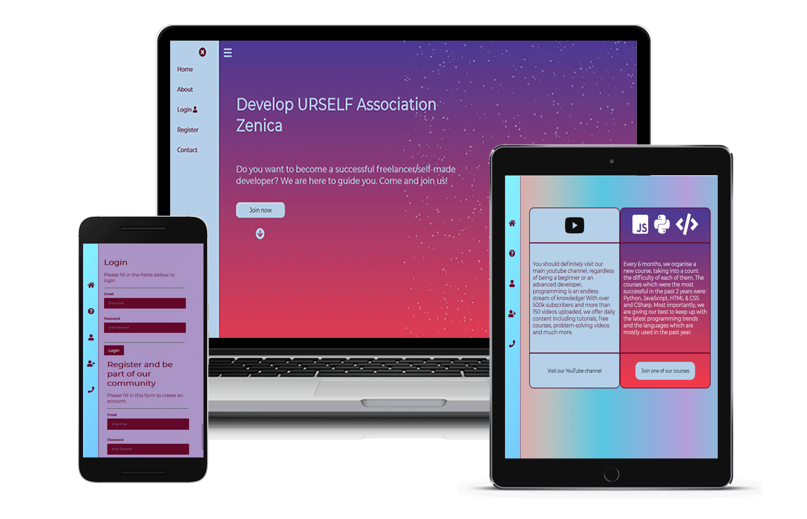
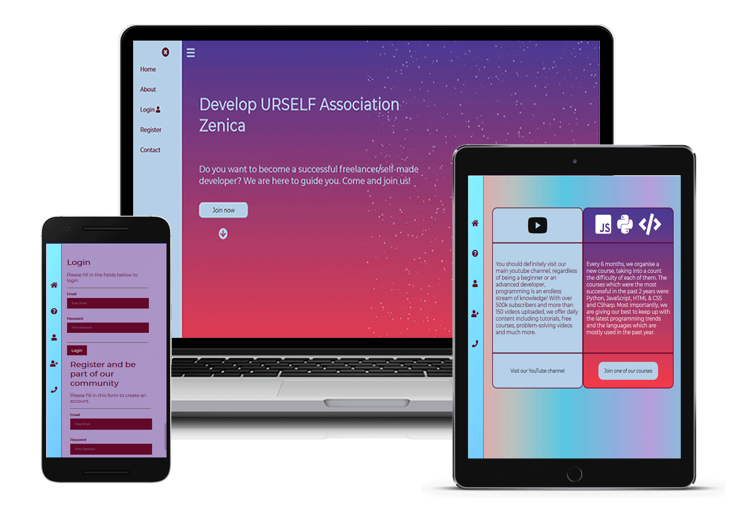
Changed the design and hovers of some components

diff --git a/index.html b/index.html
@@ -98,7 +98,7 @@
             </div>
             <div class="skills_wrapper">
                 <div class="skill1" data-aos="zoom-in" data-aos-duration="800">
-                    <div class="icon1">
+                    <div class="icon1" style="box-shadow: rgb(38, 57, 77) 0px 20px 30px -10px;">
                         <i class="fas fa-laugh-beam"></i>
                     </div>
                     <div class="mini_subtitle">Cheerful and communicative
@@ -109,7 +109,7 @@
                     </div>
                 </div>
                 <div class="skill2" data-aos="zoom-in" data-aos-duration="800">
-                    <div class="icon2">
+                    <div class="icon2" style="box-shadow: rgb(38, 57, 77) 0px 20px 30px -10px;">
                         <i class="fas fa-users"></i>
                     </div>
                     <div class="mini_subtitle">Organisation skills</div>
@@ -118,7 +118,7 @@
                         consistent.</div>
                 </div>
                 <div class="skill3" data-aos="zoom-in" data-aos-duration="800">
-                    <div class="icon3">
+                    <div class="icon3" style="box-shadow: rgb(38, 57, 77) 0px 20px 30px -10px;">
                         <i class="fas fa-medal"></i>
                     </div>
                     <div class="mini_subtitle">Competitive</div>
@@ -127,7 +127,9 @@
                         at whatever I do.</div>
                 </div>
                 <div class="skill4" data-aos="zoom-in" data-aos-duration="800">
-                    <div class="icon4"><i class="fas fa-book"></i></div>
+                    <div class="icon4" style="box-shadow: rgb(38, 57, 77) 0px 20px 30px -10px;">
+                        <i class="fas fa-book"></i>
+                    </div>
                     <div class="mini_subtitle">Continuous learner</div>
                     <div class="skills_text">I've developed a habit of
                         continuous
@@ -136,7 +138,8 @@
                         technologies, as well as any challenges.</div>
                 </div>
                 <div class="skill5" data-aos="zoom-in" data-aos-duration="800">
-                    <div class="icon5"><i class="fas fa-desktop"></i></div>
+                    <div class="icon5" style="box-shadow: rgb(38, 57, 77) 0px 20px 30px -10px;">
+                        <i class="fas fa-desktop"></i></div>
                     <div class="mini_subtitle">Long-time IT devotee</div>
                     <div class="skills_text">I've explored the world of IT
                         basically my whole life and it's the only sector
@@ -152,60 +155,74 @@
             <div class="technologies_wrapper1">
                 <div class="technology1" data-aos="fade-up" data-aos-anchor-placement="bottom-bottom"
                     data-aos-duration="700">
-                    <div class="technologies_icon1">
+                    <div class="technologies_icon1" style="box-shadow: rgba(3, 102, 214, 0.3) 0px 0px 0px 3px;">
                         <i class="fab fa-html5"></i>
                     </div>
                     <div class="mini_subtitle2">HTML</div>
                 </div>
                 <div class="technology2" data-aos="fade-up" data-aos-anchor-placement="bottom-bottom"
                     data-aos-duration="700">
-                    <div class="technologies_icon2">
+                    <div class="technologies_icon2" style="box-shadow: rgba(3, 102, 214, 0.3) 0px 0px 0px 3px;">
                         <i class="fab fa-css3-alt"></i>
                     </div>
                     <div class="mini_subtitle2">CSS</div>
                 </div>
                 <div class="technology3" data-aos="fade-up" data-aos-anchor-placement="bottom-bottom"
                     data-aos-duration="700">
-                    <div class="technologies_icon3">
+                    <div class="technologies_icon3" style="box-shadow: rgba(3, 102, 214, 0.3) 0px 0px 0px 3px;">
                         <i class="fab fa-js-square"></i>
                     </div>
                     <div class="mini_subtitle2">JavaScript</div>
                 </div>
                 <div class="technology4" data-aos="fade-up" data-aos-anchor-placement="bottom-bottom"
                     data-aos-duration="700">
-                    <div class="technologies_icon4"><i class="fas fa-server"></i></div>
+                    <div class="technologies_icon4" style="box-shadow: rgba(3, 102, 214, 0.3) 0px 0px 0px 3px;">
+                        <i class="fas fa-server"></i>
+                    </div>
                     <div class="mini_subtitle2">MySQL</div>
                 </div>
                 <div class="technology5" data-aos="fade-up" data-aos-anchor-placement="bottom-bottom"
                     data-aos-duration="700">
-                    <div class="technologies_icon5"><i class="fab fa-github-square"></i></div>
+                    <div class="technologies_icon5" style="box-shadow: rgba(3, 102, 214, 0.3) 0px 0px 0px 3px;">
+                        <i class="fab fa-github-square"></i>
+                    </div>
                     <div class="mini_subtitle2">Git</div>
                 </div>
             </div>
             <div class="technologies_wrapper2">
                 <div class="technology6" data-aos="fade-up" data-aos-anchor-placement="bottom-bottom"
                     data-aos-duration="700">
-                    <div class="technologies_icon6"><i class="fab fa-node-js"></i></div>
+                    <div class="technologies_icon6" style="box-shadow: rgba(3, 102, 214, 0.3) 0px 0px 0px 3px;">
+                        <i class="fab fa-node-js"></i>
+                    </div>
                     <div class="mini_subtitle2">NodeJS</div>
                 </div>
                 <div class="technology7" data-aos="fade-up" data-aos-anchor-placement="bottom-bottom"
                     data-aos-duration="700">
-                    <div class="technologies_icon7"><i class="fab fa-vuejs"></i></div>
+                    <div class="technologies_icon7" style="box-shadow: rgba(3, 102, 214, 0.3) 0px 0px 0px 3px;">
+                        <i class="fab fa-vuejs"></i>
+                    </div>
                     <div class="mini_subtitle2">VueJS</div>
                 </div>
                 <div class="technology8" data-aos="fade-up" data-aos-anchor-placement="bottom-bottom"
                     data-aos-duration="700">
-                    <div class="technologies_icon8"><i class="fab fa-react"></i></div>
+                    <div class="technologies_icon8" style="box-shadow: rgba(3, 102, 214, 0.3) 0px 0px 0px 3px;">
+                        <i class="fab fa-react"></i>
+                    </div>
                     <div class="mini_subtitle2">React</div>
                 </div>
                 <div class="technology9" data-aos="fade-up" data-aos-anchor-placement="bottom-bottom"
                     data-aos-duration="700">
-                    <div class="technologies_icon9"><i class="fab fa-react"></i></div>
+                    <div class="technologies_icon9" style="box-shadow: rgba(3, 102, 214, 0.3) 0px 0px 0px 3px;">
+                        <i class="fab fa-react"></i>
+                    </div>
                     <div class="mini_subtitle2">React Native</div>
                 </div>
                 <div class="technology10" data-aos="fade-up" data-aos-anchor-placement="bottom-bottom"
                     data-aos-duration="700">
-                    <div class="technologies_icon10"><i class="fas fa-database"></i></div>
+                    <div class="technologies_icon10" style="box-shadow: rgba(3, 102, 214, 0.3) 0px 0px 0px 3px;">
+                        <i class="fas fa-database"></i>
+                    </div>
                     <div class="mini_subtitle2">ExpressJS</div>
                 </div>
             </div>
@@ -215,7 +232,7 @@
             <div class="container d-flex flex-column align-items-center">
                 <h3 class="row subtitle4">Projects</h3>
                 <div class="row">
-                    <div id="carouselExampleIndicators" class="carousel slide carousel-width carousel-height"
+                    <div id="carouselExampleIndicators" class="carousel slide carousel-width carousel-height bg-dark" style="border-radius: 30px; box-shadow: rgb(38, 57, 77) 0px 20px 30px -10px;"
                         data-ride="carousel">
                         <ol class="carousel-indicators">
                             <li data-target="#carouselExampleIndicators" data-slide-to="0" class="active">
@@ -284,7 +301,7 @@
                                 </p>
                             </div>
                         </div>
-                        <a class=" carousel-control-prev bg-dark" style="width: 30px; height: 100px; margin-top: 20%; " href="#carouselExampleIndicators" role="button" data-slide="prev">
+                        <a class="carousel-control-prev bg-dark" style="width: 30px; height: 100px; margin-top: 20%; " href="#carouselExampleIndicators" role="button" data-slide="prev">
                             <span class="carousel-control-prev-icon" aria-hidden="true"></span>
                             <span class="sr-only">Previous</span>
                         </a>
@@ -301,7 +318,7 @@
                                 <strong>DevelopURSELF Community WebPage</strong>
                                 <font class="text-warning" style="font-size: 12px">(older project)</font>
                             </h5>
-                            <p class="text-light text-center mt-3" style="font-size: 14px">An idea
+                            <p class="text-light font-italic text-center mt-3" style="font-size: 14px">An idea
                                         of an organised
                                         developers community in
                                         Zenica, based on
@@ -319,7 +336,7 @@
                             <h5 class="h5 text-light text-center"><strong>ScrollerJS JavaScript Game </strong>
                                 <font class="text-warning" style="font-size: 12px">(older project)</font>
                             </h5>
-                            <p class="text-light text-center mt-3" style="font-size: 14px">ScrollerJS is a web
+                            <p class="text-light font-italic text-center mt-3" style="font-size: 14px">ScrollerJS is a web
                                         browser
                                         game, made in
                                         JavaScript, as well as in
@@ -336,7 +353,7 @@
                             <h5 class="h5 text-light text-center"><strong>JavaScript WeatherApp</strong>
                                 <font class="text-warning" style="font-size: 12px">(older project)</font>
                             </h5>
-                            <p class="text-light text-center mt-3" style="font-size: 14px">This particular app
+                            <p class="text-light font-italic text-center mt-3" style="font-size: 14px">This particular app
                                         provides a 5-day or single day
                                         weather data for any
                                         city in the world, using OpenWeather API. It retrieves the weather data based on
@@ -350,7 +367,7 @@
                             <h5 class="h5 text-light text-center"><strong>COVID-19 Hackathon WebPage</strong>
                                 <font style="font-size: 12px; color: #00FF00">(newer project)</font>
                             </h5>
-                            <p class=" text-light text-center mt-3" style="font-size: 14px">Info page about COVID-19,
+                            <p class=" text-light font-italic text-center mt-3" style="font-size: 14px">Info page about COVID-19,
                                             particularly made for a
                                             Hackathon
                                             event
@@ -367,7 +384,7 @@
                             <h5 class="h5 text-light text-center"><strong>VueJS & Firebase Online Shop</strong>
                                 <font style="font-size: 12px; color: #00FF00">(newer project)</font>
                             </h5>
-                            <p class="text-light text-center mt-3" style="font-size: 14px">Fully working online
+                            <p class="text-light font-italic text-center mt-3" style="font-size: 14px">Fully working online
                                         shop
                                         made using VueJS, JavaScript, Firebase and other modern-day technologies. This
                                         shop
@@ -396,7 +413,7 @@
                                 <font style="font-size: 12px; color: #00FF00">(newer project)</font>
                             </h5>
                             <h6 class="text-light text-center" style="font-size: 14px;"><I>First Web/Mobile App that features digital ordering in Bosnia and Herzegovina</I></h6>
-                            <p class=" text-light text-center mt-3" style="font-size: 14px">Latest project that I finished
+                            <p class=" text-light font-italic text-center mt-3" style="font-size: 14px">Latest project that I finished
                                             working on, together with my colleague Adnan Kubat from college. The app features a quick and easy way to make orders by scanning
                                             a QR code from the table that the person is sitting at. This is a web app, which is purposely made for mobile phones, while the desktop side is used by
                                             caterers who are receiving orders. There is also an alternative way to access the app, since it is hosted on the web, and that is by entering the provided link at the table.
@@ -410,7 +427,7 @@
                             <h5 class="h5 text-light text-center"><strong>Personal Portfolio</strong>
                                 <font style="font-size: 12px; color: #00FF00">(newer project)</font>
                             </h5>
-                            <p class=" text-light text-center mt-3" style="font-size: 14px">Portfolio made using
+                            <p class="text-light font-italic text-center mt-3" style="font-size: 14px">Portfolio made using
                                             HTML/CSS/Javascript/Bootstrap as well as some other technologies. This
                                             portfolio
                                             feautures the home page, my personal biography, my skills and endorsements
@@ -425,7 +442,7 @@
                             <h5 class="h5 text-light text-center"><strong>ReactJS & Firebase Blog Page/Website</strong>
                                 <font style="font-size: 12px; color: #00FF00">(newer project)</font>
                             </h5>
-                            <p class=" text-light text-center mt-3" style="font-size: 14px">An ongoing project that I've started working on in September 2020. 
+                            <p class="text-light font-italic text-center mt-3" style="font-size: 14px">An ongoing project that I've started working on in September 2020. 
                                 This blog page/website will be made for a local Taekwondo Academy "JALE" in Zenica, Bosnia and Herzegovina.
                                 It will feature the latest news regarding the academy, it's tournaments, history and main information about the club itself.
                                 The main point of making this website with react/firebase is to extenuate the way of sharing news for the coaches of the named academy/club. 
@@ -437,9 +454,6 @@
         </div>  
         <!--Contact info part-->
         <div id="contact">
-                <div class="map"><iframe
-                        src="https://www.google.com/maps/embed?pb=!1m18!1m12!1m3!1d5720.448579308476!2d17.92056797717595!3d44.2024467664251!2m3!1f0!2f0!3f0!3m2!1i1024!2i768!4f13.1!3m3!1m2!1s0x475ee23ae979250f%3A0x6fbcab0f8f80f2f2!2sBabina%20rijeka%2C%20Zenica%2072000!5e0!3m2!1sen!2sba!4v1582035933430!5m2!1sen!2sba"
-                        width="1920" height="600" frameborder="0" style="border:0;" allowfullscreen=""></iframe></div>
                 <div class="info">
                     <h3 class="subtitle5 mt-4">Find me on</h3>
                     <div class="social_media mt-4">

diff --git a/style1.css b/style1.css
@@ -96,10 +96,18 @@ body {
   justify-content: center;
   width: 100%;
 }
+.profile_picture:hover {
+  -webkit-transform: scale(1.1);
+  -ms-transform: scale(1.1);
+  transform: scale(1.1);
+}
 .profile_picture {
   width: 300px;
   height: 300px;
   border-radius: 50%;
+  -webkit-transition: 200ms ease;
+	-o-transition: 200ms ease;
+	transition: 200ms ease;
 }
 .biography_box {
   display: flex;
@@ -178,6 +186,9 @@ body {
   width: 120px;
   background-color: white;
   color: #1c77ac;
+  -webkit-transition: 200ms ease;
+	-o-transition: 200ms ease;
+	transition: 200ms ease;
 }
 .icon1:hover,
 .icon2:hover,
@@ -260,6 +271,9 @@ body {
   width: 120px;
   background-color: #1c77ac;
   color: white;
+  -webkit-transition: 200ms ease;
+	-o-transition: 200ms ease;
+	transition: 200ms ease;
 }
 .technologies_icon1:hover,
 .technologies_icon2:hover,
@@ -384,13 +398,20 @@ body {
   height: 70px;
   width: 70px;
   color: #dcdcdc;
+  -webkit-transform: scale(1.1);
+  -ms-transform: scale(1.1);
+  transform: scale(1.1);
 }
 .facebook:hover,
 .instagram:hover,
 .linkedin:hover,
 .github:hover {
   font-size: 40px;
-  transition-delay: 1s;
+  -webkit-transform: scale(1.1);
+  -ms-transform: scale(1.1);
+  transform: scale(1.1);
+  -webkit-box-shadow: 0 0 40px -5px rgba(0, 0, 0, 0.2);
+  box-shadow: 0 0 40px -5px rgba(0, 0, 0, 0.2)
 }
 .mail {
   display: flex;
